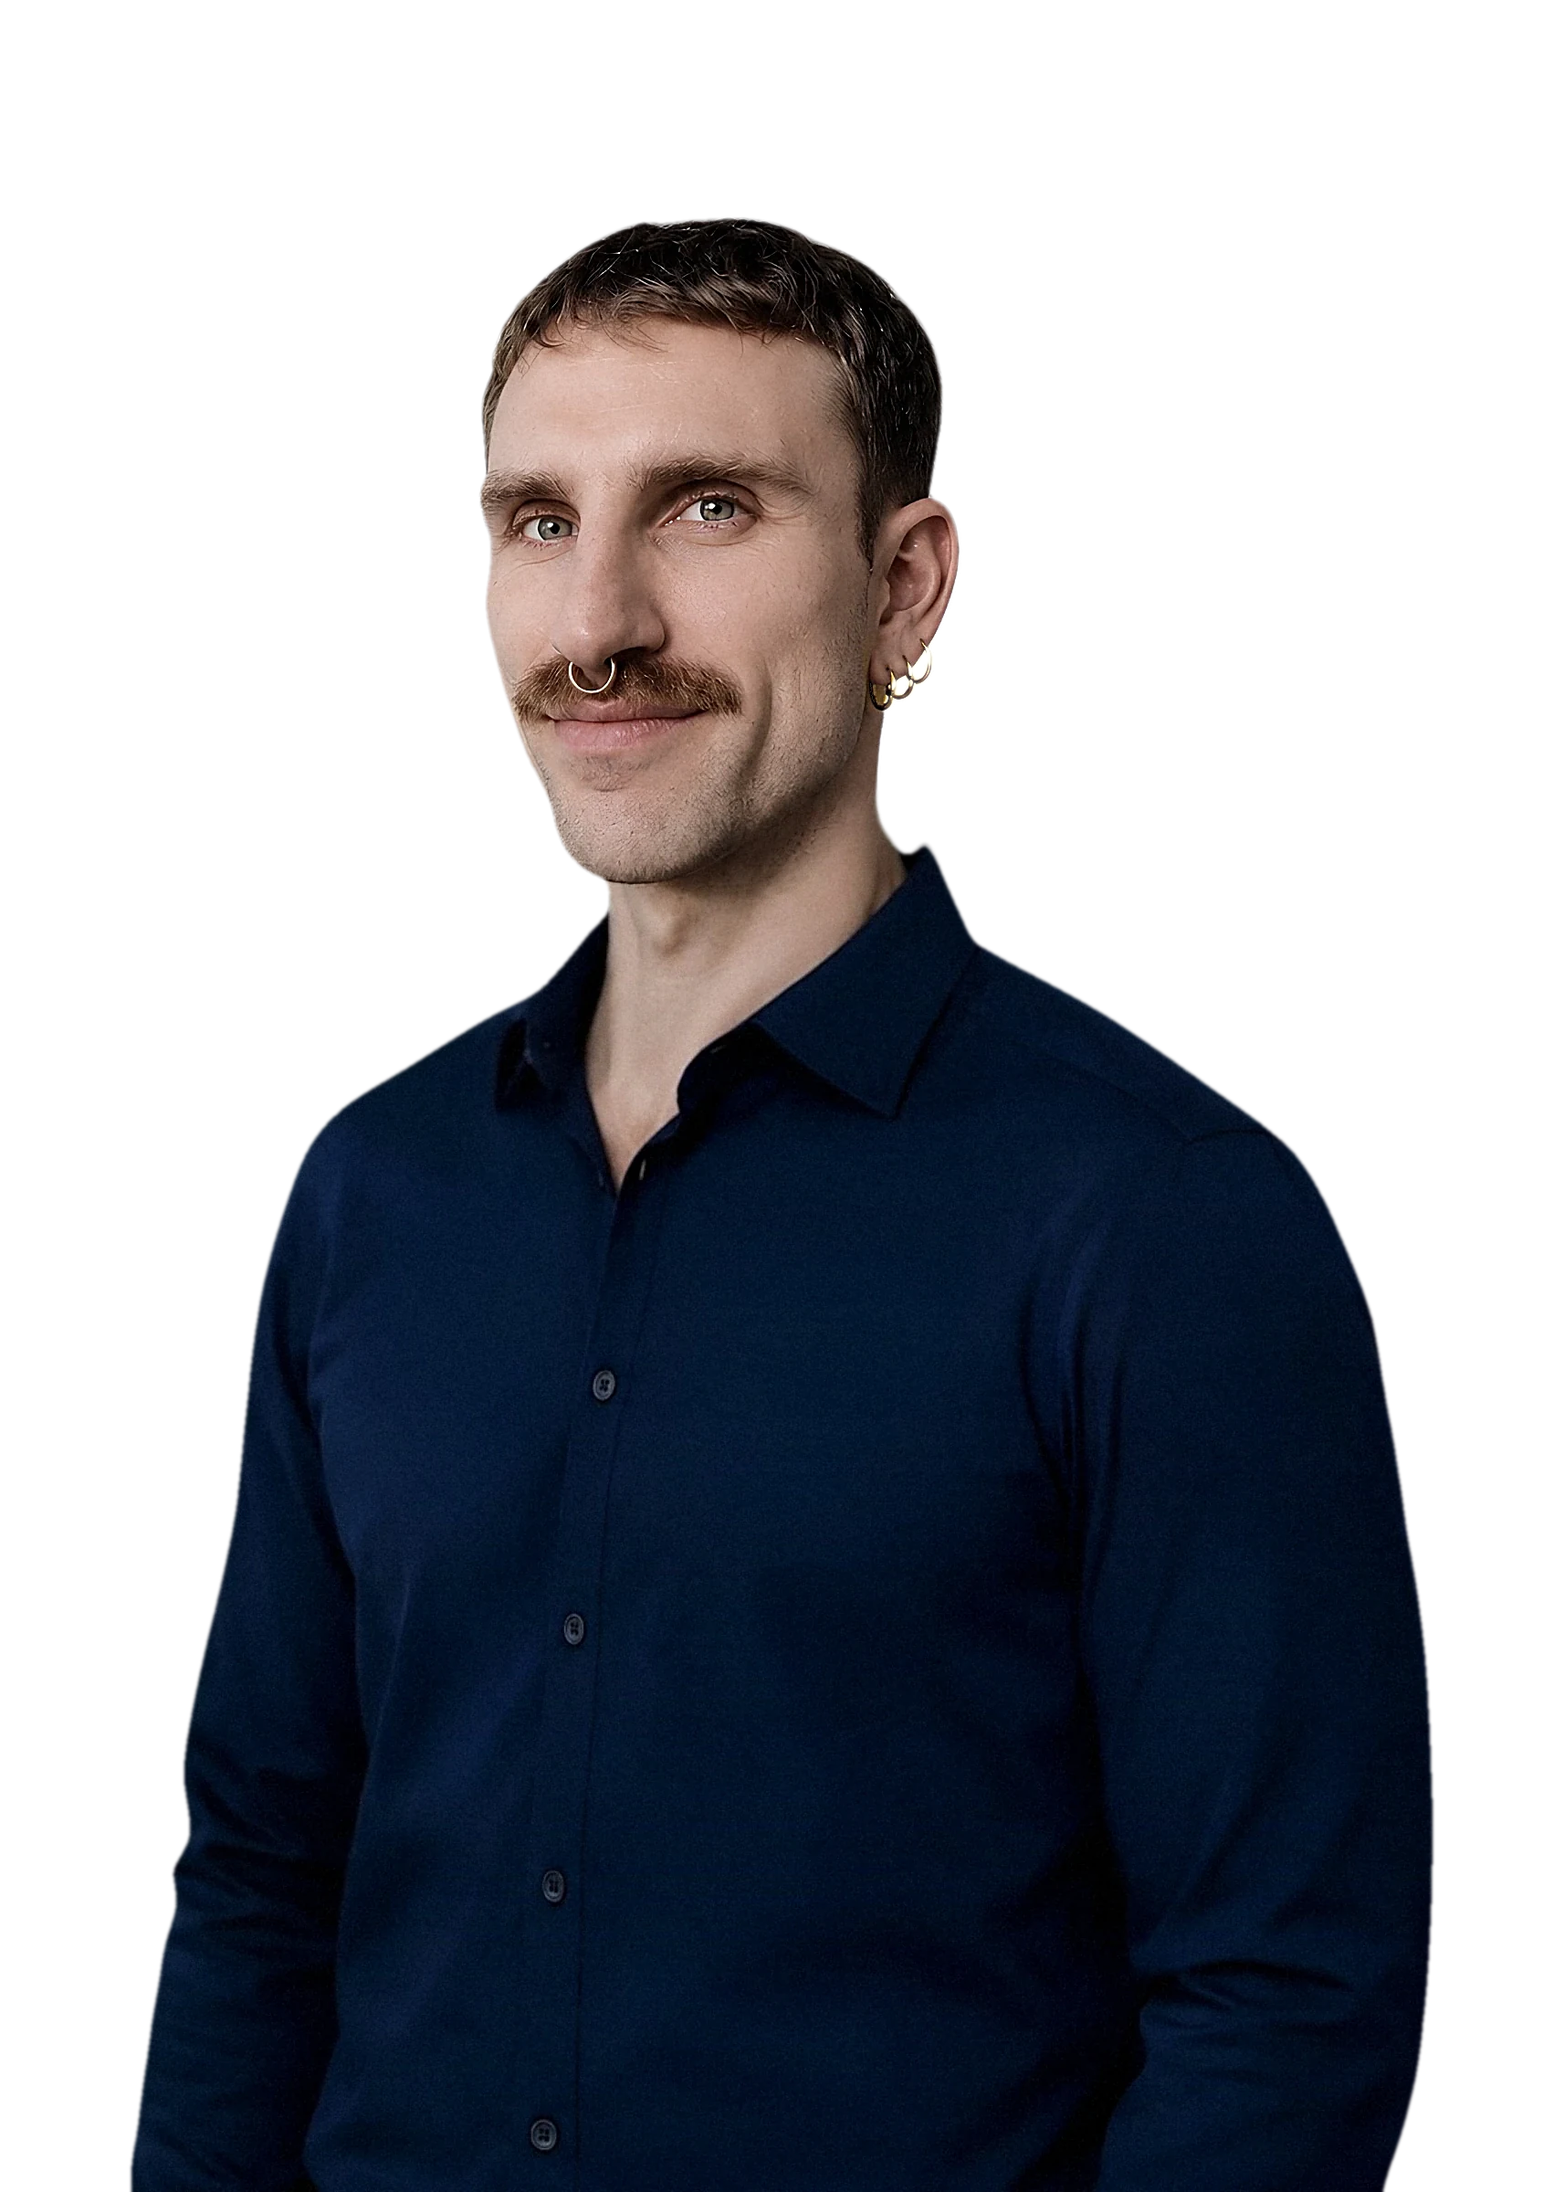
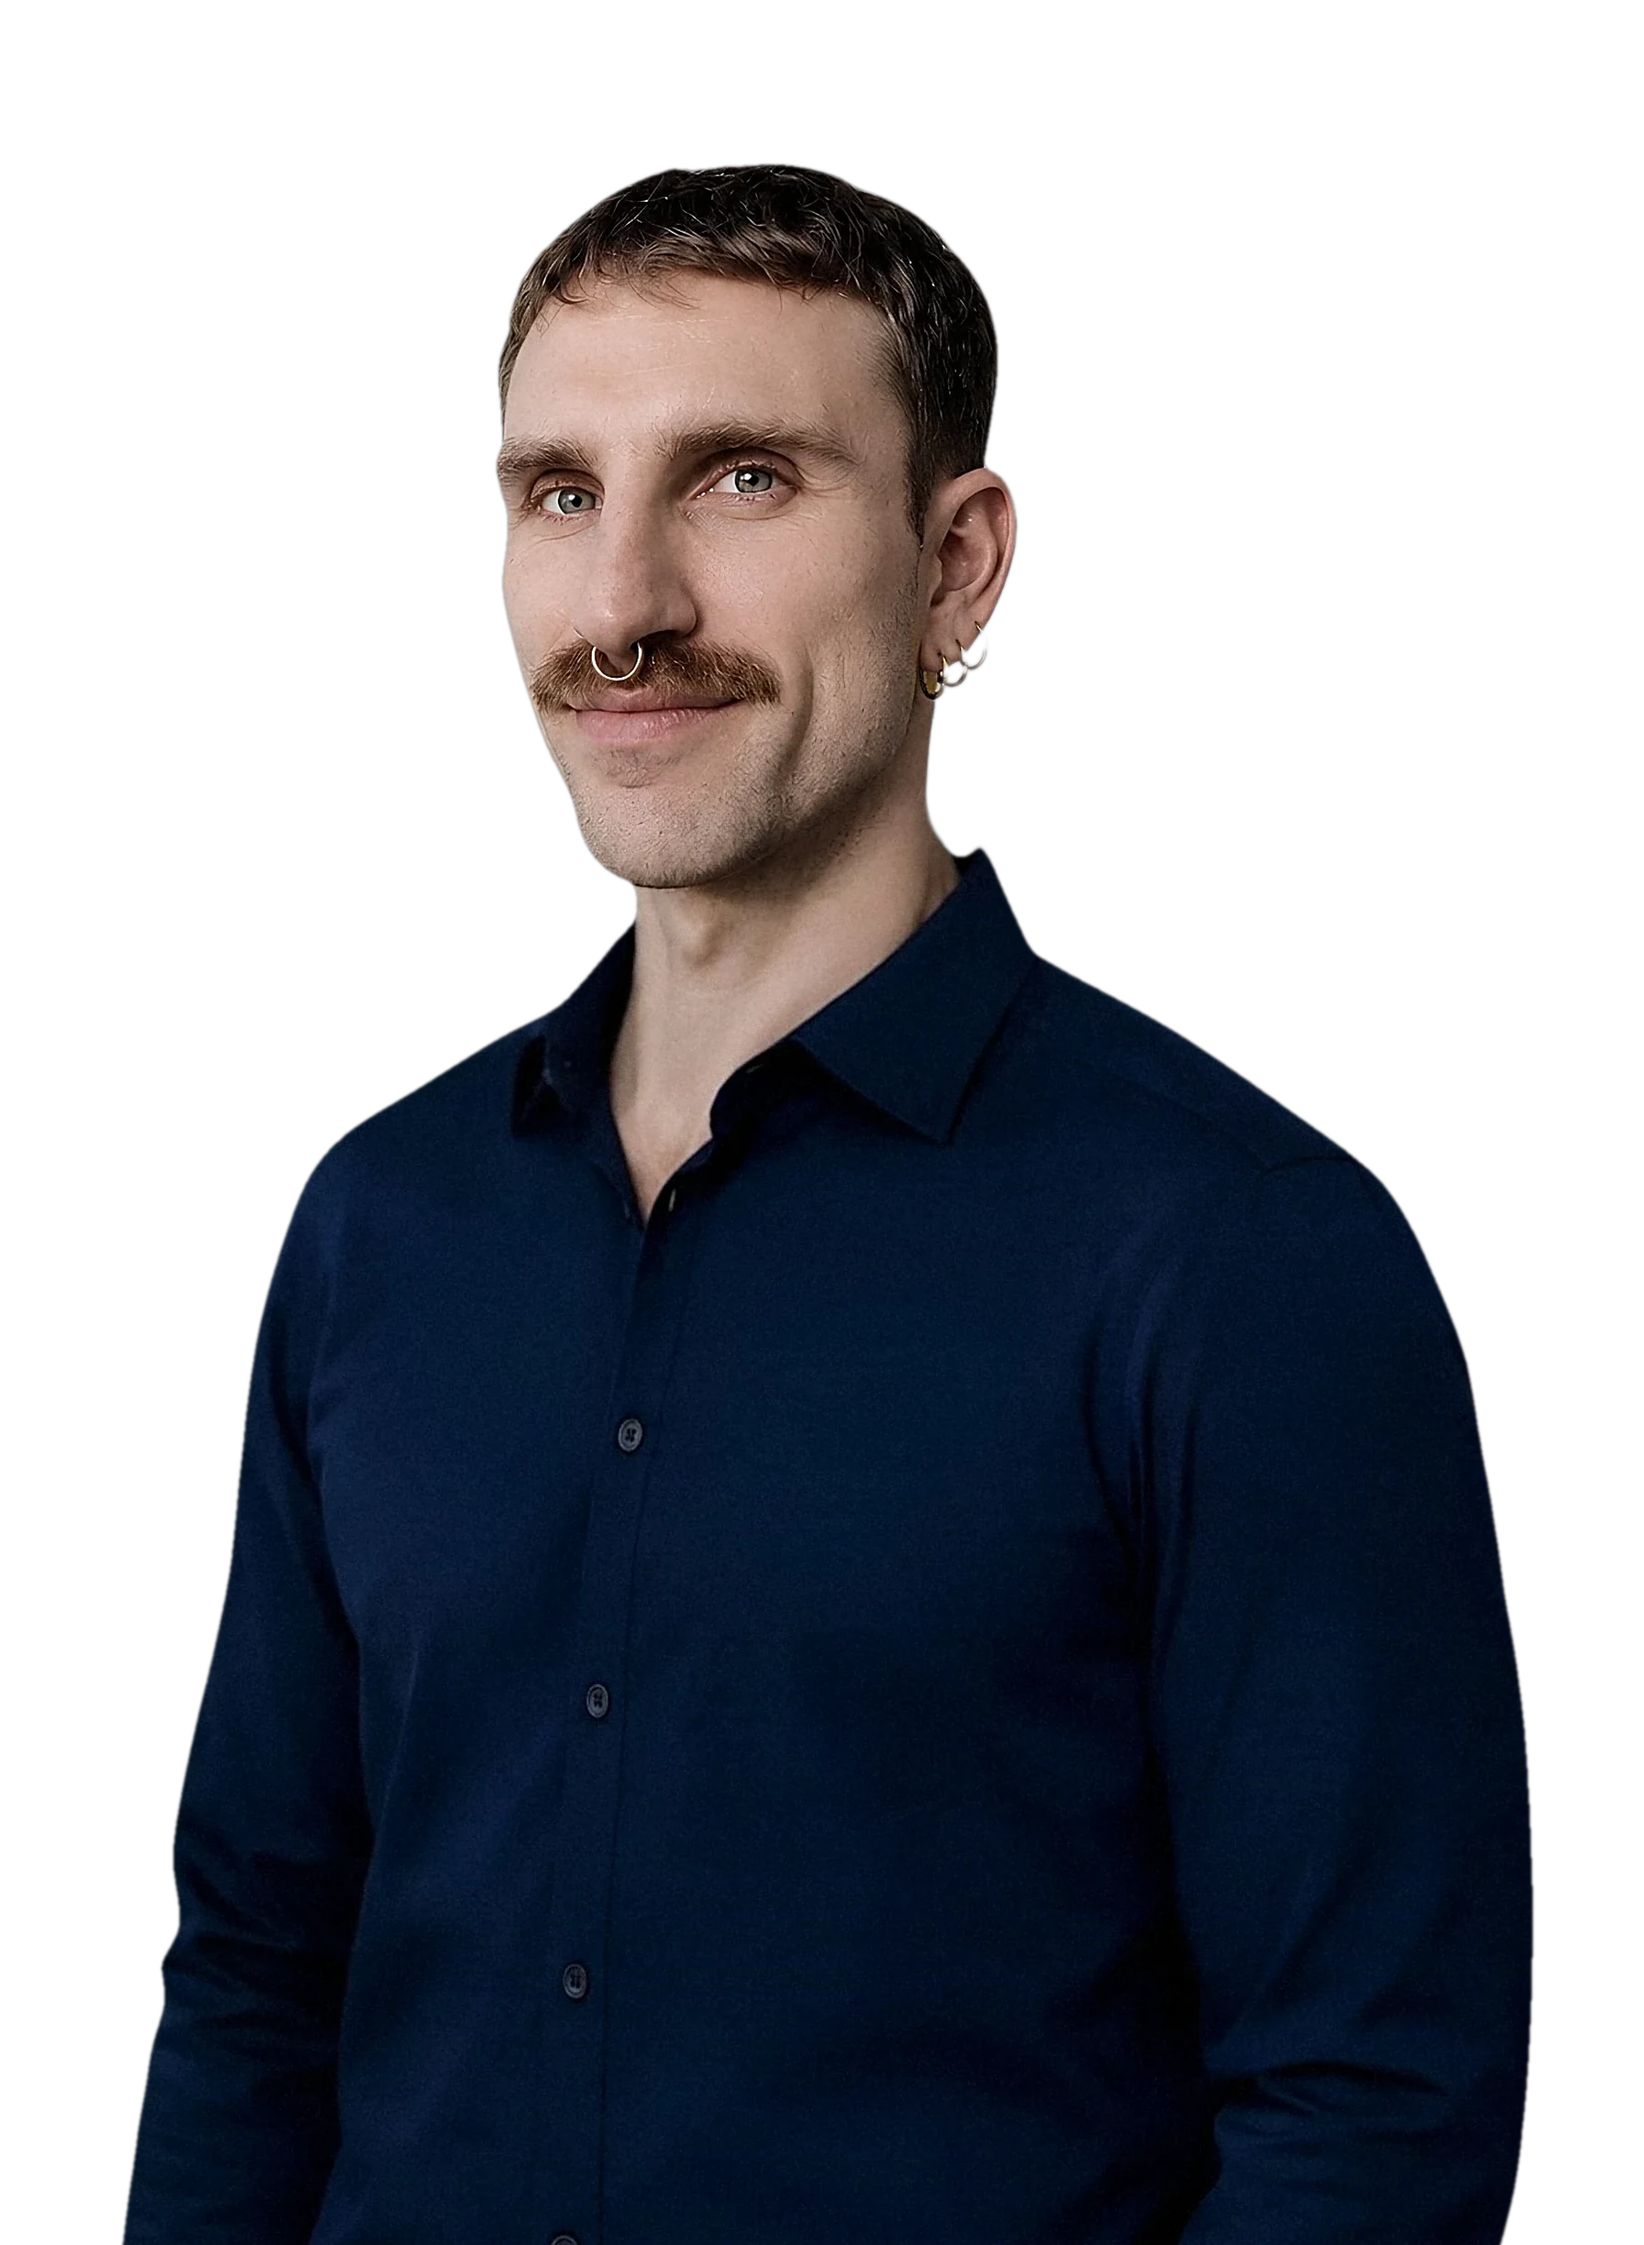
Porträt: abgenommenes Handy-Layout wiederhergestellt, neues Foto auf gleiche Kopfposition und Größe gesetzt
Claude-Session: https://claude.ai/code/session_01LiDdJKJTbftxrGLFFFpm9R

diff --git a/style.css b/style.css
@@ -5051,12 +5051,3 @@ html:not(#ka)[data-theme="dark"] :is(.check,.faq details){background:linear-grad
 .about-tl-node .wmk.wmk-node .lg-f{transition:transform .9s cubic-bezier(.65,0,.3,1)}
 @media (prefers-reduced-motion:reduce){.about-tl-node .wmk.wmk-node .lg-f{transition:none}}
 .calm .about-tl-node .wmk.wmk-node .lg-f{transition:none!important}
-
-/* v183: Handy hochkant – Porträt zeigt mehr Körper (höherer Ausschnitt, weichere Ausblendung weiter unten), Kopf mittig */
-@media (max-width:700px){
- html:not(#ka) .home-page .hero-v5 .hero-portrait{margin-left:10vw!important}
- html:not(#ka) .home-page .hero-v5{padding-top:calc((100vw - 36px) * .66 - 30vw + 24.44vw)!important}
- html:not(#ka) .home-page .hero-v5 .hero-portrait .hero-photo{aspect-ratio:900/1180!important}
- html:not(#ka):root:not([data-theme="dark"]):not(.never) .home-page .hero-v5 .hero-portrait{-webkit-mask-image:linear-gradient(180deg,#000 0%,#000 72%,rgba(0,0,0,.8) 78%,rgba(0,0,0,.5) 85%,rgba(0,0,0,.2) 92%,transparent 98%)!important;mask-image:linear-gradient(180deg,#000 0%,#000 72%,rgba(0,0,0,.8) 78%,rgba(0,0,0,.5) 85%,rgba(0,0,0,.2) 92%,transparent 98%)!important}
- html:not(#ka)[data-theme="dark"] .home-page .hero-v5 .hero-portrait .hero-photo{-webkit-mask-image:linear-gradient(180deg,#000 0%,#000 72%,rgba(0,0,0,.6) 82%,rgba(0,0,0,.2) 91%,transparent 98%)!important;mask-image:linear-gradient(180deg,#000 0%,#000 72%,rgba(0,0,0,.6) 82%,rgba(0,0,0,.2) 91%,transparent 98%)!important}
-}
